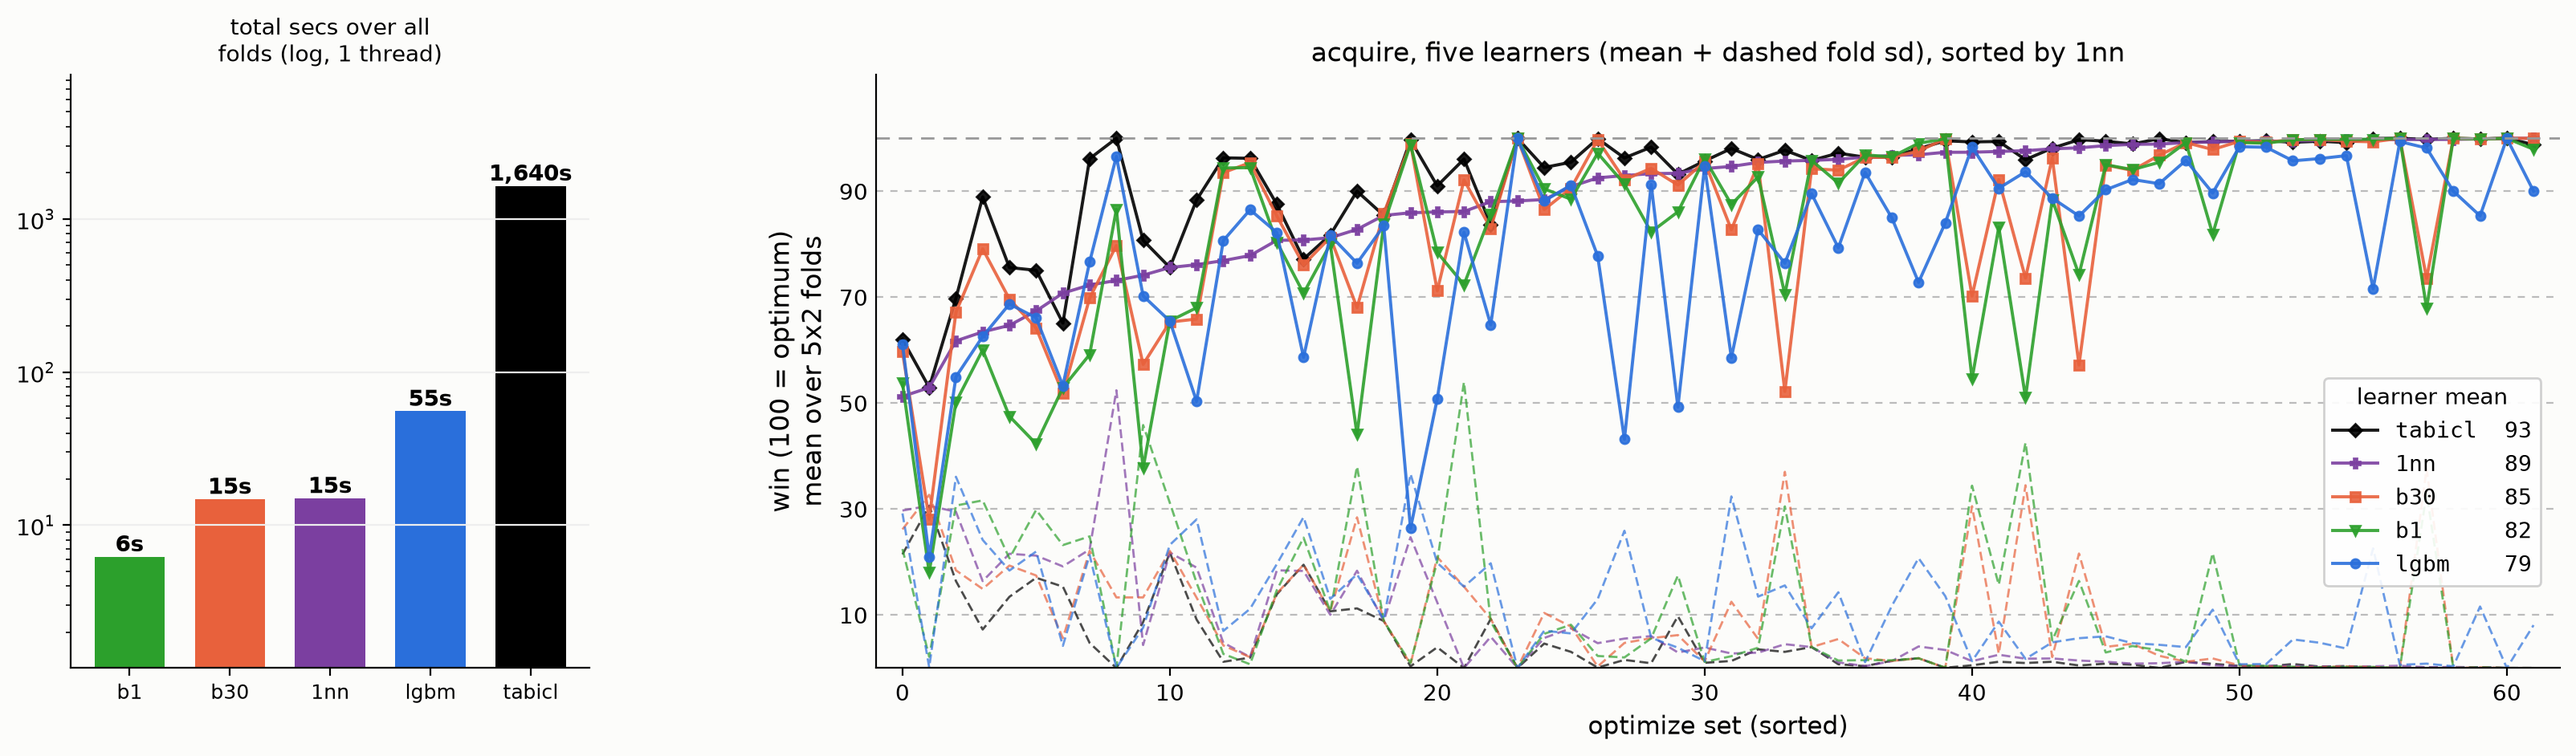
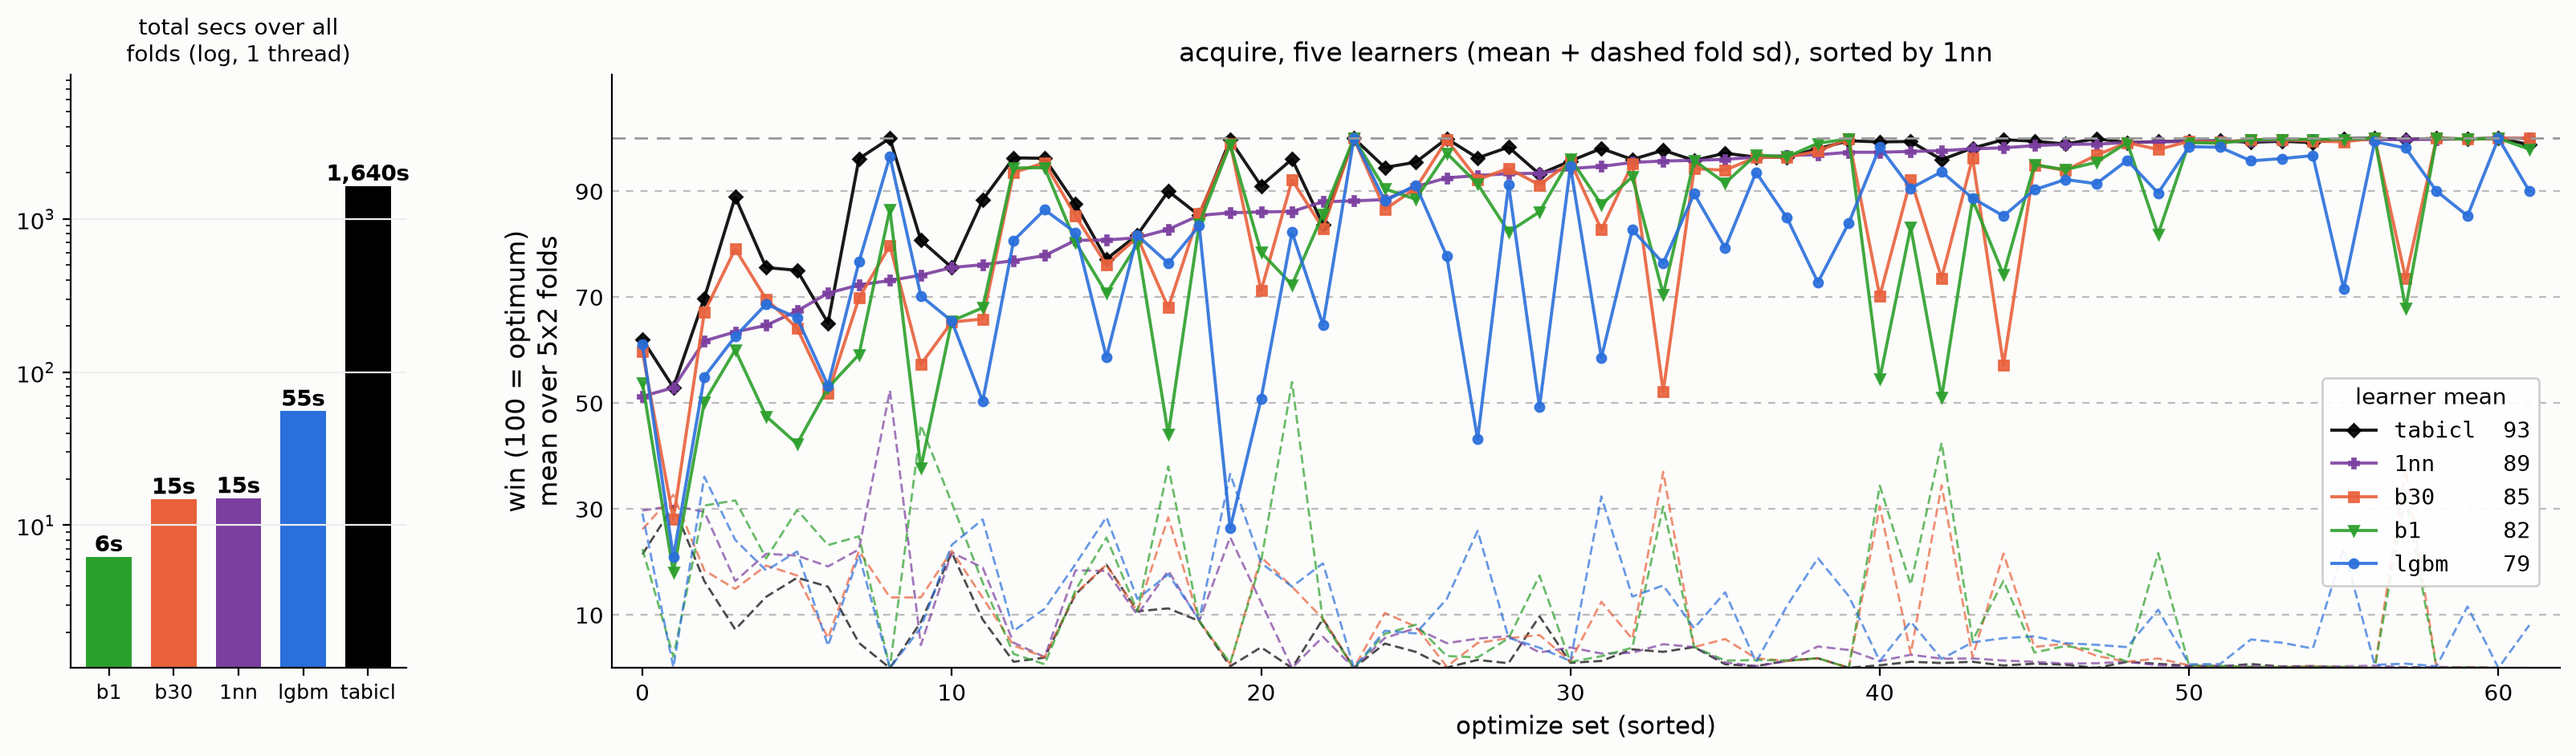
ens-active: widen win panel

diff --git a/active_plot.py b/active_plot.py
@@ -66,7 +66,7 @@ grand = {a: st.fmean([mu[(s, a)] for s in sets if (s, a) in mu])
          for a in {a for _, a in F}}
 
 fig = plt.figure(figsize=(20, 4.8))
-gs = fig.add_gridspec(1, 2, width_ratios=[.8, 2.6], wspace=.26)
+gs = fig.add_gridspec(1, 2, width_ratios=[.55, 3.2], wspace=.18)
 
 # -- secs bars at far left; win lines centre; delta right ---------------
 hx = fig.add_subplot(gs[0])                        # runtime bars
